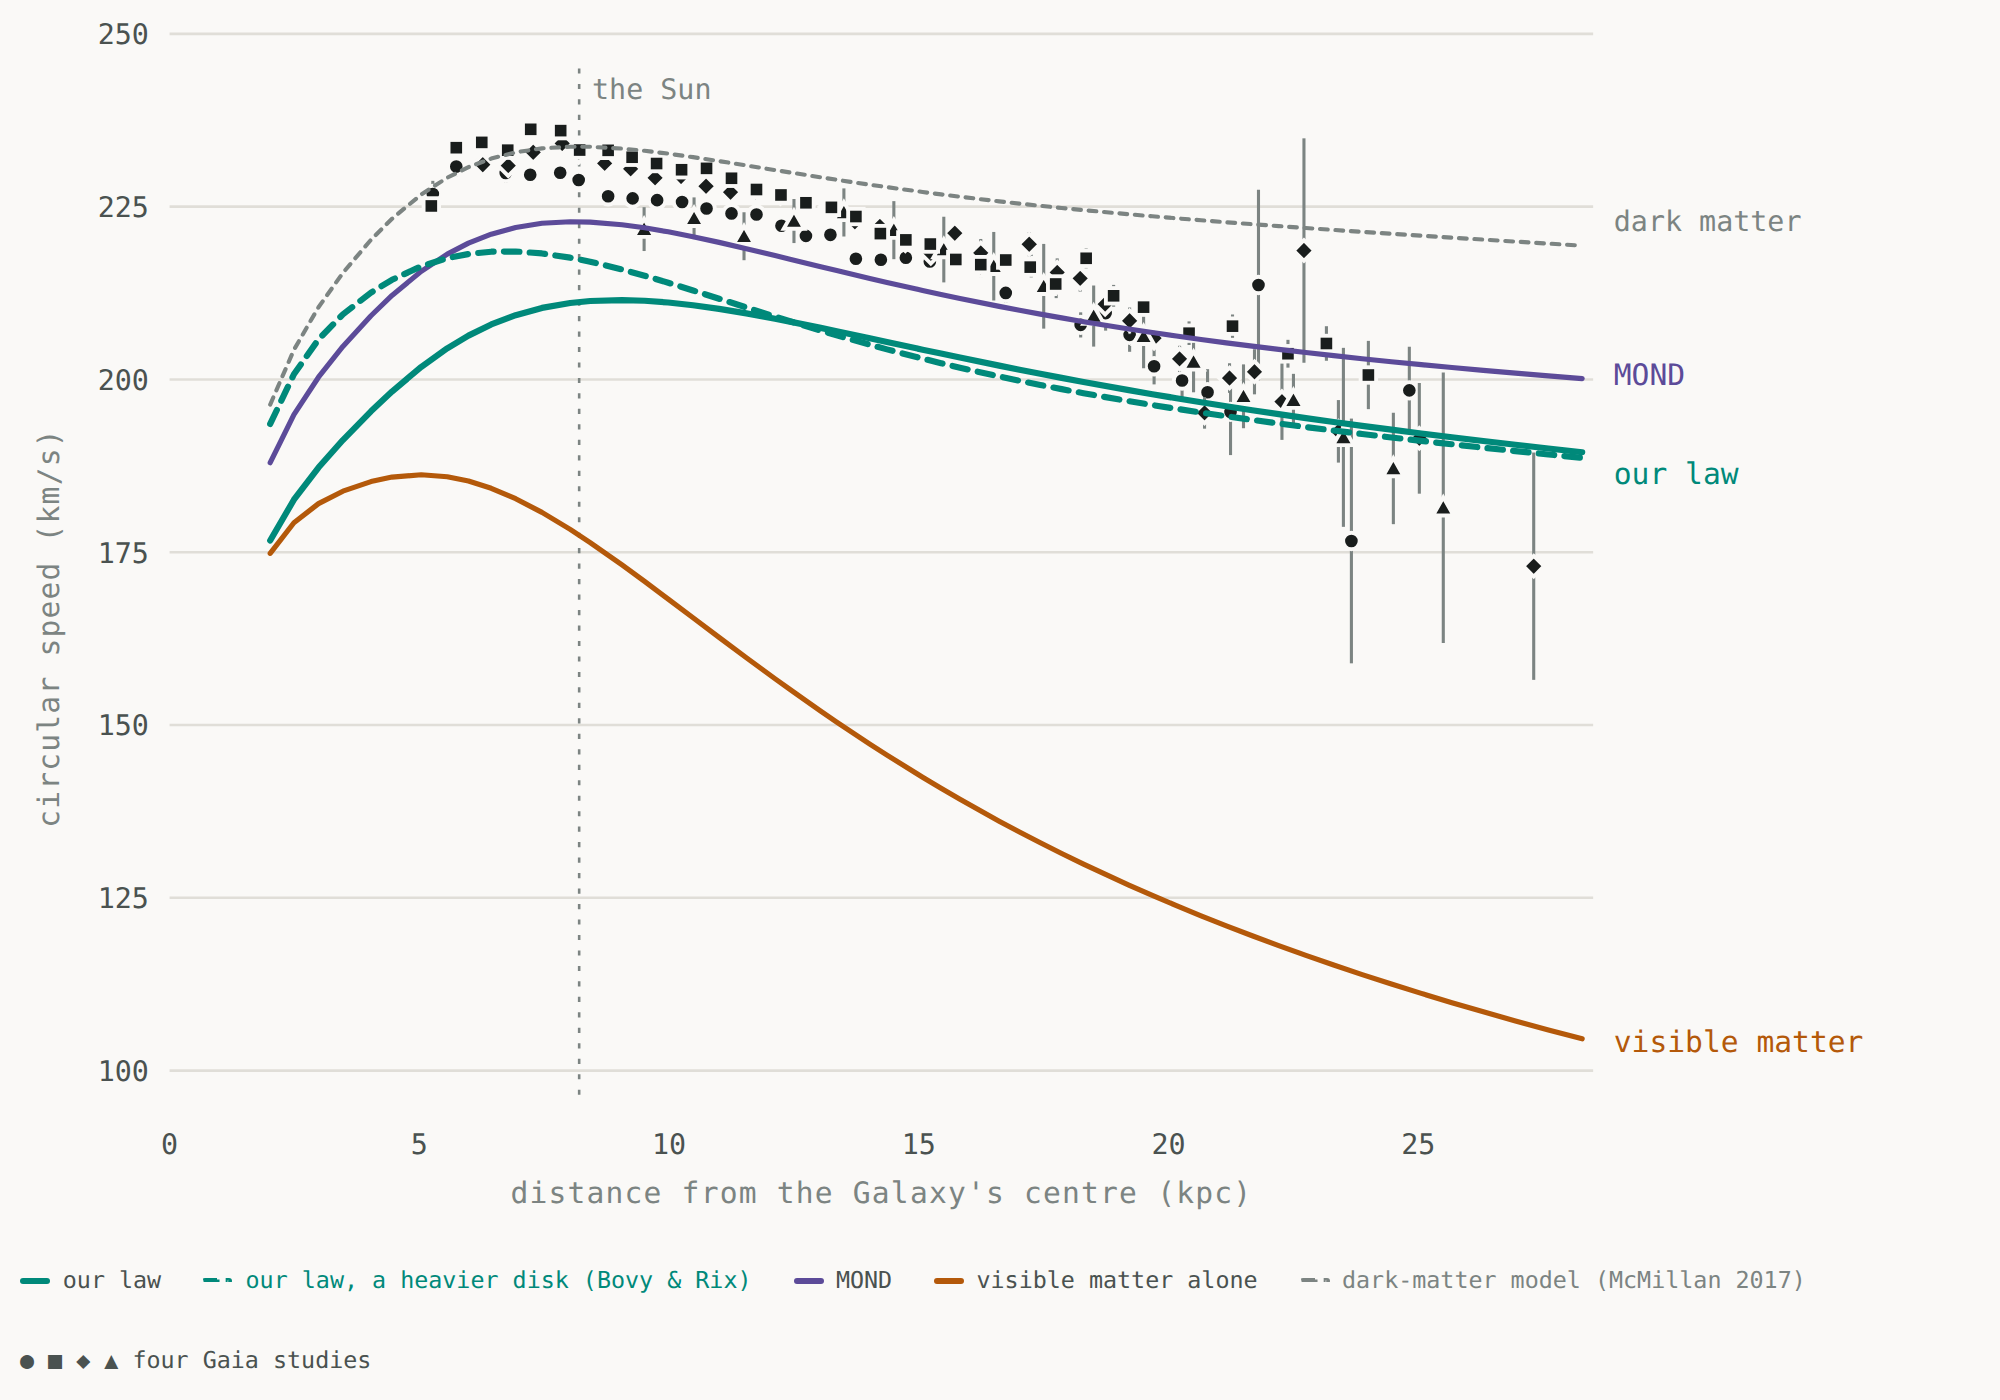
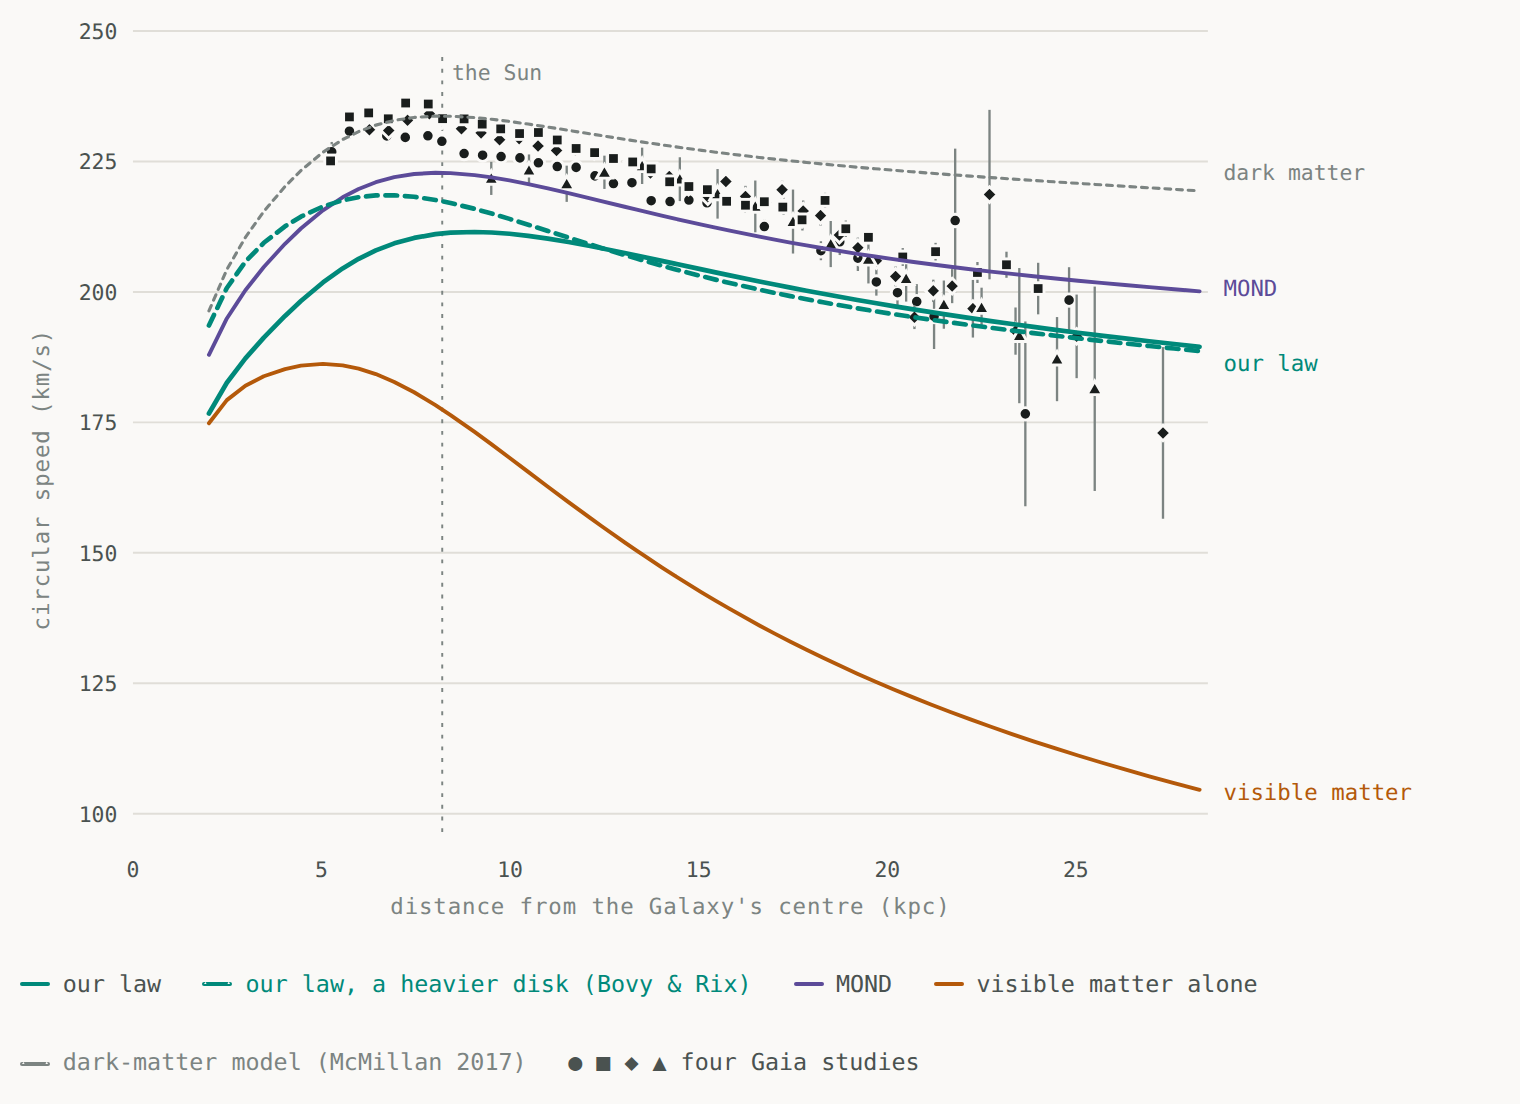
Fresh blog: charts re-rendered from the new page; chart sources named
The chart images now come from the fresh page: the bar chart's labels fit
inside it, and the legends no longer refer to the notebook's history.
Captions name the script that drew each chart and, where a chart was drawn
with an earlier fit of the constants, how much the current fit moves it.
MACS J0025's lensing masses agree within their large errors.

Claude-Session: https://claude.ai/code/session_01XPn8aXFvXQbSw7BCny2bUq

diff --git a/BLOG.md b/BLOG.md
@@ -389,7 +389,9 @@ cold disks; hot bulges add to it. Script `code/run_v3.py`.*
 ![Measured over predicted cluster mass](blog-figures/clusters.png)
 
 *Twelve clusters with measured gas, temperatures and stars (X-COP). At six radii, the mass needed to hold the gas over
-the mass each law predicts; a perfect law sits on ×1. Script `code/xcop_static_v11.py`.*
+the mass each law predicts; a perfect law sits on ×1. Chart from `code/run_v3.py`, drawn with an earlier fit of
+the constants; the current fit, in the project's own distances (`code/xcop_static_v11.py`), moves our points by at most
+4%.*
 
 | | Typical miss | Adjustable numbers |
 |---|---:|---|
@@ -409,7 +411,8 @@ make each kilogram count dozens of times over.
 
 *The Bullet Cluster, solved in 3D and projected exactly as a lensing map is made. Left: our law puts both lensing peaks
 on the galaxies (dots) and little on the gas (diamonds), as measured. Right: the same law with the heat switched off
-(MOND-like) puts the lensing on the gas. Script `code/bullet_static_v11.py`.*
+(MOND-like) puts the lensing on the gas. Chart from `code/bullet_main_v5.py` and `code/bullet_v3.py`; the current
+constants in the project's own distances (`code/bullet_static_v11.py`) keep the same pattern.*
 
 * **The pattern usually called impossible without dark matter is reproduced:** both lensing peaks sit on the galaxies,
   and the gas regions carry little extra lensing. It takes both ideas of §3.6–3.7: drop either and the lensing lands
@@ -427,7 +430,7 @@ on the galaxies (dots) and little on the gas (diamonds), as measured. Right: the
 `code/collisions_v10.py`.*
 
 * **MACS J0025.4−1222**, a second Bullet: both lensing peaks sit on their galaxies at the age its shock fronts give
-  (0.1–0.36 billion years since the crossing), and its lensing masses agree.
+  (0.1–0.36 billion years since the crossing), and its lensing masses agree within their large errors.
 * **Abell 520**, a "train wreck" whose middle clump has lensing but few galaxies, long called a dark core: ours gives
   3.7 × 10¹³ suns there from its gas and the surrounding galaxies' heat, against 3.3–3.9 measured, and five of its six
   clumps agree.
@@ -438,7 +441,8 @@ on the galaxies (dots) and little on the gas (diamonds), as measured. Right: the
 
 ![The Milky Way's circular speed](blog-figures/milky-way.png)
 
-*The Milky Way's circular speed from 2 to 28 kpc, against four Gaia measurements. Script `code/milky_way_v7.py`.*
+*The Milky Way's circular speed from 2 to 28 kpc, against four Gaia measurements. Script `code/milky_way_v7.py`, drawn
+with an earlier fit of the constants; the current fit lowers our curve by about 2 km/s at the Sun.*
 
 * **Agrees:** the rotation from 15 to 27 kpc (within 1–6%), the pull above the disk (73 against 68–74 in the usual
   units), the Galaxy's mass inside 100 and 200 kpc (6.5 and 12.4 against 6.1–7.3 and 11.0 × 10¹¹ suns), and the
@@ -491,7 +495,8 @@ separates our law from MOND.
 ![Weak lensing around 259,000 isolated galaxies](blog-figures/galaxy-lensing-kids.png)
 
 *Weak lensing around about 259,000 isolated galaxies (KiDS-1000). For each acceleration from visible matter, the
-observed one, separately for spirals (cold) and ellipticals (hot). Script `code/kids_heat_v12.py`.*
+observed one, separately for spirals (cold) and ellipticals (hot). Chart from `code/lensing_census_v7.py`; the numbers
+below, with the lenses' star speeds measured and in the project's own distances, from `code/kids_heat_v12.py`.*
 
 * An elliptical's stars move randomly at 150–250 km/s and never collide, so in our law they are warm (heat weight
   2.4–6.5) and feed the companion harder. A spiral's stars circle in step and are cold.
